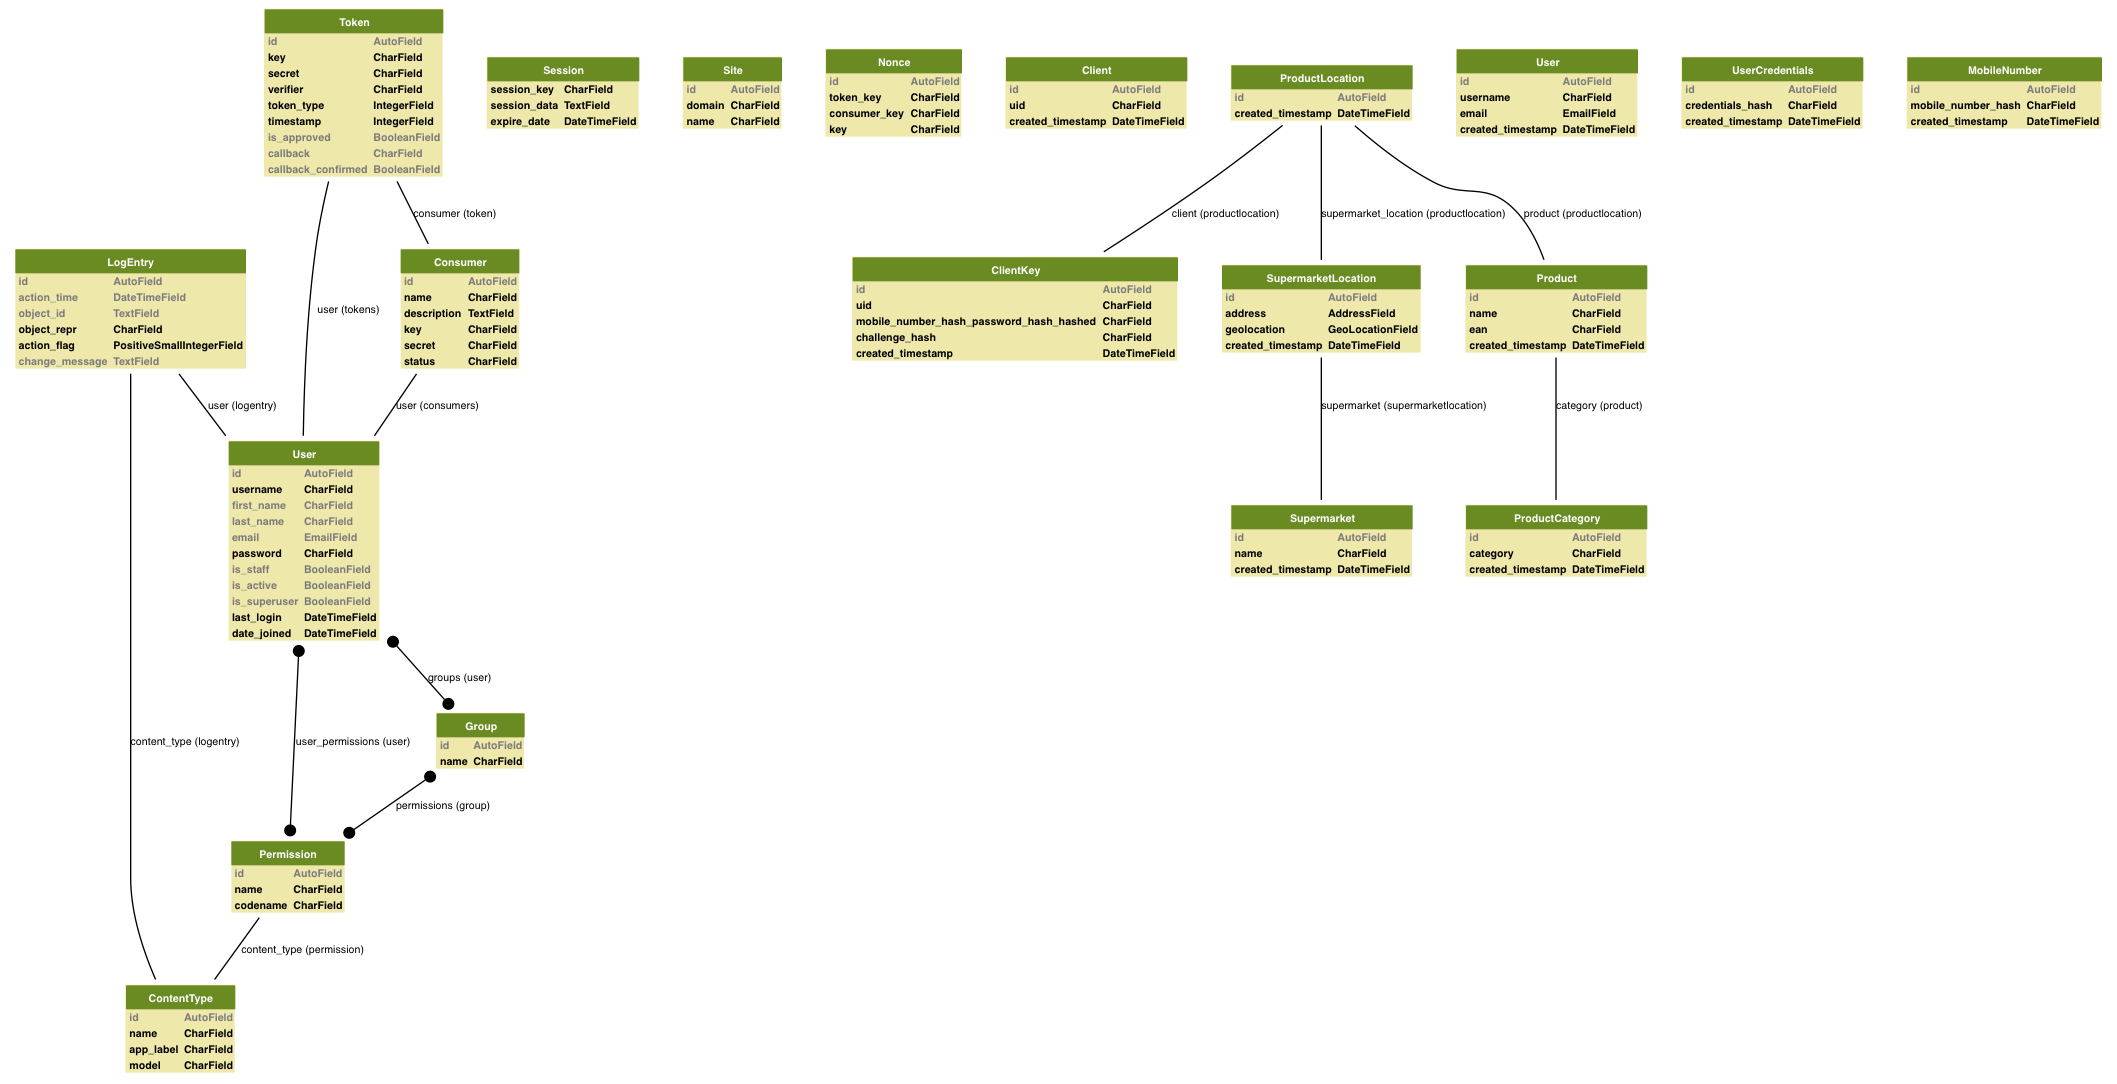
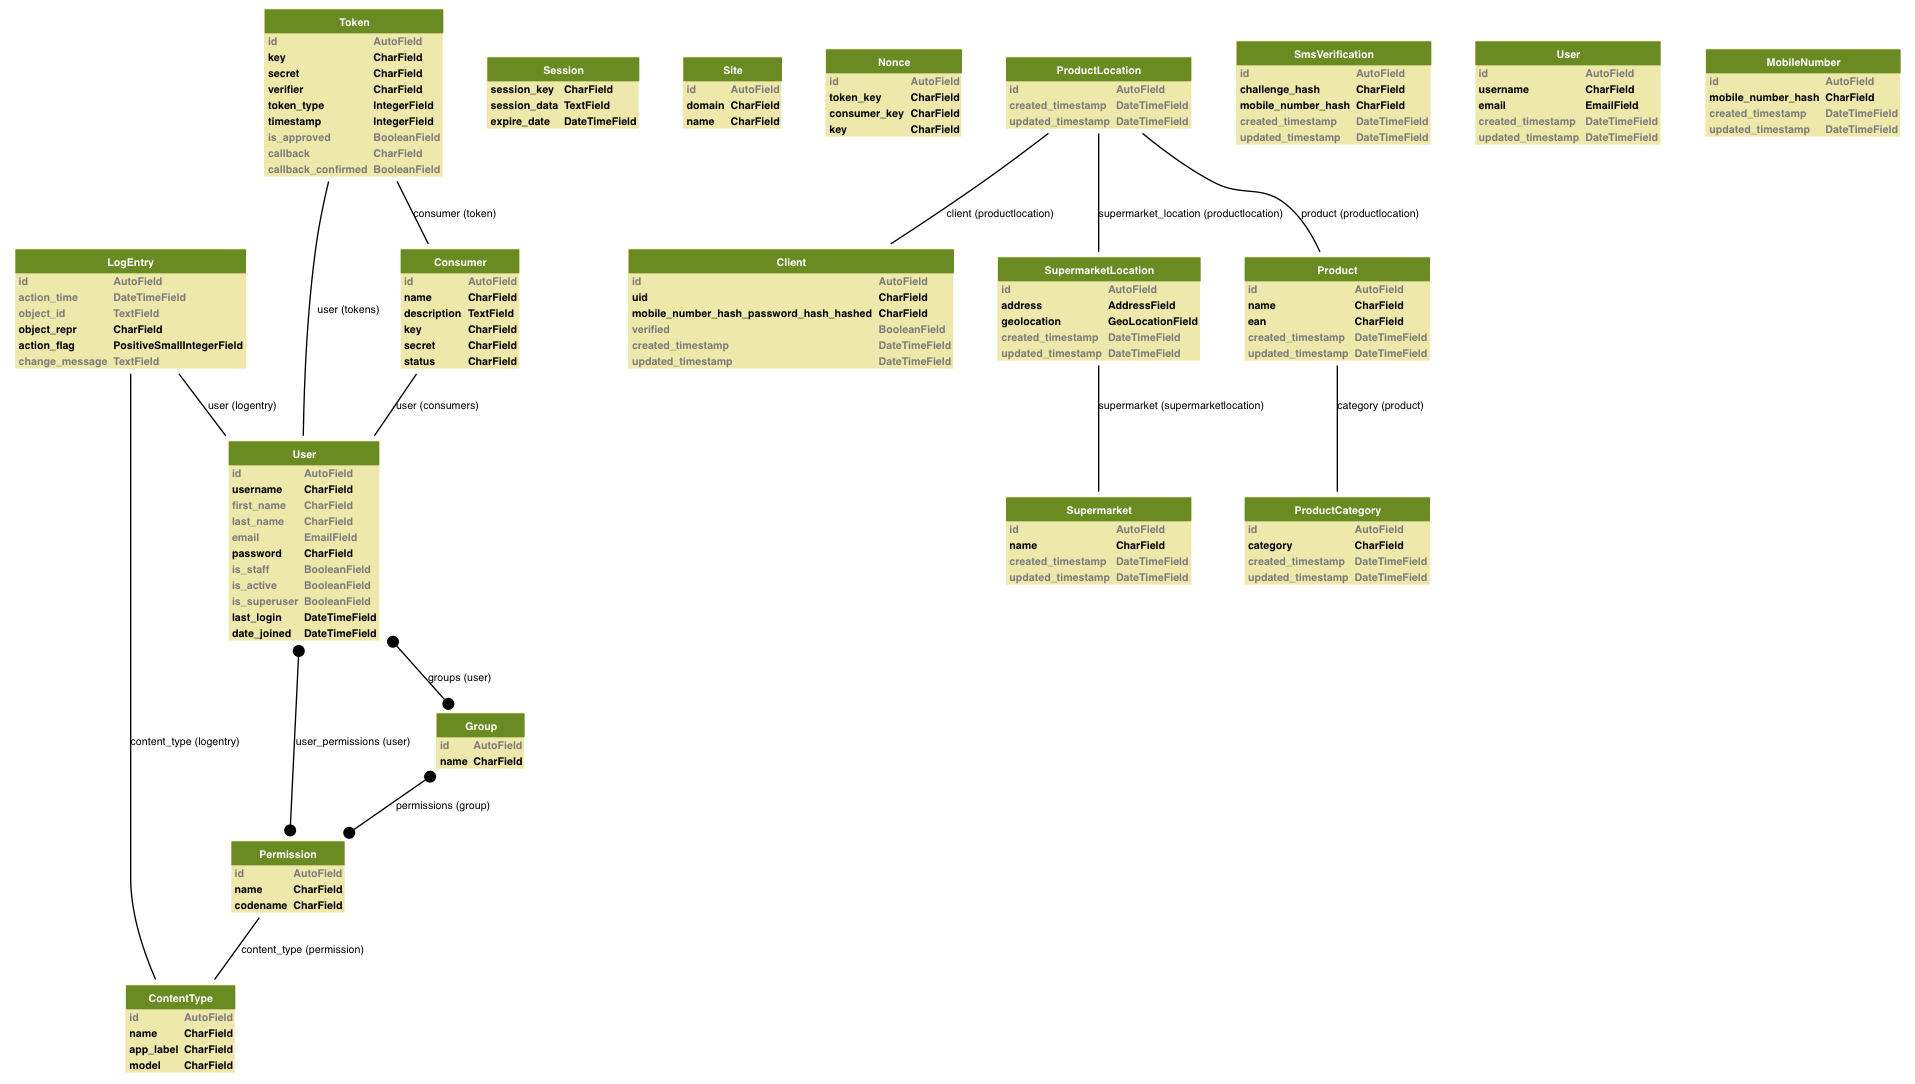
User verification

diff --git a/etiktak/clients/models.py b/etiktak/clients/models.py
@@ -32,39 +32,24 @@ from etiktak.util import util
 from django.db import models
 
 class SmsVerificationManager(models.Manager):
-    def verify_user(self, mobile_number, challenge):
+    def verify_user(self, mobile_number, password, challenge):
         verifications = self.filter(mobile_number_hash=util.sha256(mobile_number))
         if verifications is None or len(verifications) == 0:
             raise BaseException("No challenge found for mobile number: %s" % mobile_number)
         verification = verifications[0]
         if not verification.challenge_hash == util.sha256(challenge):
             raise BaseException("Provided challenge for mobile number %s doesn't match" % mobile_number)
-        verification.verified = True
-        verification.save()
+        clients = Client.objects.filter(mobile_number_hash_password_hash_hashed=util.sha256(util.sha256(mobile_number) + util.sha256(password)))
+        if clients is None or len(clients) == 0:
+            raise BaseException("No client found for mobile number: %s" % mobile_number)
+        client = clients[0]
+        client.verified = True
+        client.save()
 
 class Client(models.Model):
-    uid = models.CharField(max_length=255, unique=True)
-    created_timestamp = models.DateTimeField(auto_now_add=True)
-    updated_timestamp = models.DateTimeField(auto_now=True)
-
-    def create_client(self):
-        """
-        Creates and saves a client with autogenerated UID.
-        """
-        client = Client(uid = uuid.uuid4())
-        client.save()
-        return client
-
-    def __unicode__(self):
-        return u"%s" % self.uid
-
-    class Meta:
-        verbose_name = u"Klient"
-        verbose_name_plural = u"Klienter"
-
-class ClientKey(models.Model):
     uid = models.CharField(max_length=255, unique=True) # EncryptedCharField(max_length=255)
     mobile_number_hash_password_hash_hashed = models.CharField(max_length=255, unique=True) # EncryptedCharField(max_length=255)
+    verified = models.BooleanField(default=False)
     created_timestamp = models.DateTimeField(auto_now_add=True)
     updated_timestamp = models.DateTimeField(auto_now=True)
 
@@ -75,7 +60,7 @@ class ClientKey(models.Model):
         the sum of the specified mobile number hashed concatenated with the specified
         password hashed.
         """
-        client_key = ClientKey(
+        client_key = Client(
             uid = uuid.uuid4(),
             mobile_number_hash_password_hash_hashed = util.sha256(util.sha256(mobile_number) + util.sha256(password)))
         client_key.save()
@@ -92,7 +77,6 @@ class ClientKey(models.Model):
 class SmsVerification(models.Model):
     challenge_hash = models.CharField(max_length=255) # EncryptedCharField(max_length=255)
     mobile_number_hash = models.CharField(max_length=255, unique=True) # EncryptedCharField(max_length=255)
-    verified = models.BooleanField(default=False)
     created_timestamp = models.DateTimeField(auto_now_add=True)
     updated_timestamp = models.DateTimeField(auto_now=True)
 

diff --git a/etiktak/users/models.py b/etiktak/users/models.py
@@ -55,27 +55,6 @@ class User(models.Model):
         verbose_name = u"Bruger"
         verbose_name_plural = u"Brugere"
 
-class UserCredentials(models.Model):
-    credentials_hash = models.CharField(max_length=255)
-    created_timestamp = models.DateTimeField(auto_now_add=True)
-    updated_timestamp = models.DateTimeField(auto_now=True)
-
-    @staticmethod
-    def create_user_credentials(password):
-        """
-        Creates and saves a hash of the specified password.
-        """
-        credentials = UserCredentials(credentials_hash = util.sha256(password))
-        credentials.save()
-        return credentials
-
-    def __unicode__(self):
-        return u"%s" % self.credentials_hash
-
-    class Meta:
-        verbose_name = u"Bruger kodeord"
-        verbose_name_plural = u"Bruger kodeord"
-
 class MobileNumber(models.Model):
     mobile_number_hash = models.CharField(max_length=255, unique=True) # EncryptedCharField(max_length=255)
     created_timestamp = models.DateTimeField(auto_now_add=True)

diff --git a/features/steps.py b/features/steps.py
@@ -47,13 +47,14 @@ def and_I_check_that_a_challenge_has_been_created_in_the_database(step):
     world.challenge = util.sha256(util.generate_challenge())
     verification = verifications[0]
     verification.challenge_hash = util.sha256(world.challenge)
+    verification.save()
 
 @step(u'Then I can verify the user')
 def then_i_can_verify_the_user(step):
     api_handler.verify_user(world.mobile_number, world.challenge)
 
-@step(u'And I can login')
-def and_i_can_login(step):
+@step(u'And I can contribute to crowd database')
+def and_i_can_contribute_to_crowd_database(step):
     assert False, 'This step must be implemented'
 
 @step(u'Given there is already a user with mobile number "([^"]*)"')

diff --git a/etiktak/service/user_service.py b/etiktak/service/user_service.py
@@ -31,11 +31,11 @@ from etiktak.service import sms_service
 
 def apply_for_user(mobile_number, password):
     users.MobileNumber.create_mobile_number(mobile_number)
-    clients.ClientKey.create_client_key(mobile_number, password)
+    clients.Client.create_client_key(mobile_number, password)
     sms_service.generate_challenge(mobile_number)
-    print "User created: %s" % mobile_number
+    print "User created: %s\n" % mobile_number
 
 
 def verify_user(mobile_number, challenge):
     clients.SmsVerification.objects.verify_user(mobile_number, challenge)
-    print "User verified: %s" % mobile_number
+    print "User verified: %s\n" % mobile_number

diff --git a/etiktak/products/models.py b/etiktak/products/models.py
@@ -79,7 +79,7 @@ class Product(models.Model):
 class ProductLocation(models.Model):
     product = models.ForeignKey(Product)
     supermarket_location = models.ForeignKey(supermarkets.SupermarketLocation)
-    client = models.ForeignKey(clients.ClientKey)
+    client = models.ForeignKey(clients.Client)
     created_timestamp = models.DateTimeField(auto_now_add=True)
     updated_timestamp = models.DateTimeField(auto_now=True)
 

diff --git a/etiktak/service/sms_service.py b/etiktak/service/sms_service.py
@@ -29,4 +29,4 @@ from etiktak.clients import models as clients
 
 def generate_challenge(mobile_number):
     clients.SmsVerification.create_challenge(mobile_number)
-    print "Generated challenge for mobile number: %s" % mobile_number
+    print "Generated challenge for mobile number: %s\n" % mobile_number
